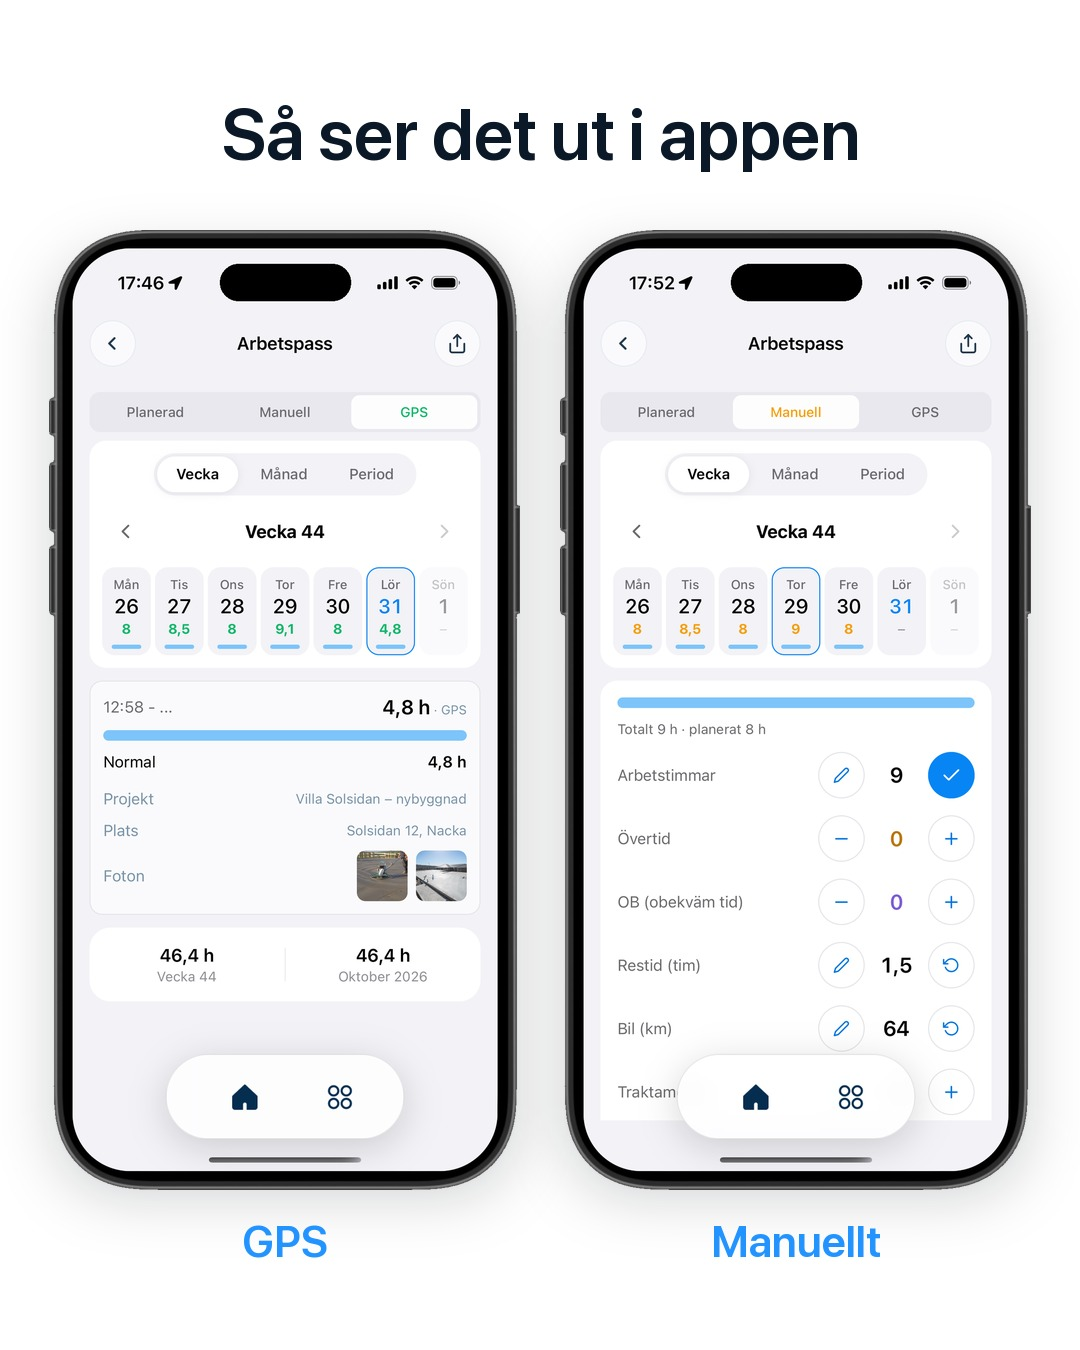
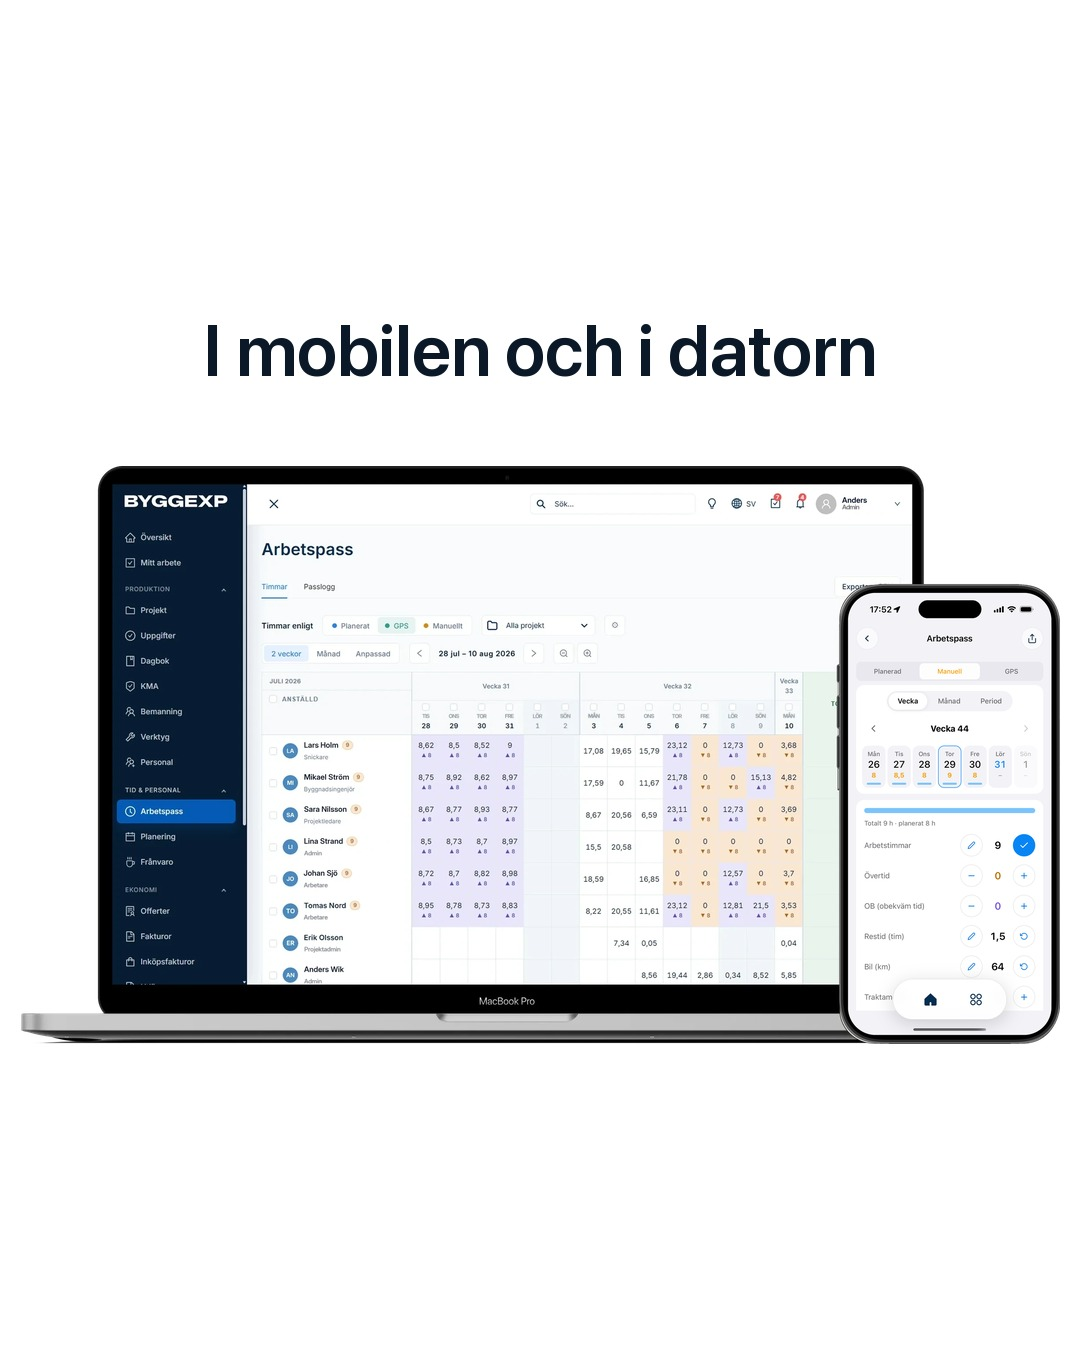
feat(smm): 3-slide carousel, site laptop with the new week screen on the phone
Claude-Session: https://claude.ai/code/session_015ffAXEftTHPL4eNP1AivUn

diff --git a/design-assets/social/posts/make_3d.py b/design-assets/social/posts/make_3d.py
@@ -235,16 +235,22 @@ def slide_shot(shots, caption):
     return f, d
 
 
-FEATURE = {  # slide 4: the site's feature picture, laptop + phone (public/landing/features)
-    "01-tid": ROOT / "public/landing/features/1arbetspass.webp",
+FEATURE = {  # last slide: the site's laptop + phone picture; the old phone is covered by the new app screen
+    # id: (site picture, new screen, phone box on the site picture: x, y_top, height)
+    "01-tid": (ROOT / "public/landing/features/1arbetspass.webp",
+               APP_SHOTS / "03-arbetspass-manuell-topp.png", (1893, 268, 1044)),
 }
 
 
-def slide_feature(path, caption):
-    # Headline + picture centred as one group (the picture is wide, so a top headline leaves a hole).
+def slide_feature(spec, caption):
+    # Laptop from the site + our real iPhone with the current week screen on top of the old phone.
+    path, screen, (px, py, ph) = spec
     f = Image.new("RGBA", (W, H), (255, 255, 255, 255))
     d = ImageDraw.Draw(f)
     im = Image.open(path).convert("RGBA")
+    p = phone(screen)
+    p = p.resize((round(p.width * ph / p.height), ph), Image.LANCZOS)
+    im.alpha_composite(p.crop((0, 0, min(p.width, im.width - px), min(p.height, im.height - py))), (px, py))
     im = im.crop(im.getbbox())
     w = W - 40
     im = im.resize((w, round(im.height * w / im.width)), Image.LANCZOS)
@@ -259,9 +265,9 @@ def carousel(pid):
     _, lines, art, items, badges = p
     size = headline_size()
     out = []
-    slides = [slide_cover(lines, art, size), slide_steps(items, pid), slide_shot(SHOTS[pid], "Så ser det ut i appen")]
-    if pid in FEATURE:
-        slides.append(slide_feature(FEATURE[pid], "I mobilen och i datorn"))
+    # 3 pictures (owner 2026-10-31): the site's laptop + new phone replaces the separate phone slide
+    last = slide_feature(FEATURE[pid], "I mobilen och i datorn") if pid in FEATURE else slide_shot(SHOTS[pid], "Så ser det ut i appen")
+    slides = [slide_cover(lines, art, size), slide_steps(items, pid), last]
     for i, (f, d) in enumerate(slides):
         if i == 0:  # footer only on the first picture (owner 2026-10-31)
             footer(f, d, badges)

diff --git a/design-assets/social/DESIGN-SYSTEM-SMM.md b/design-assets/social/DESIGN-SYSTEM-SMM.md
@@ -76,7 +76,7 @@
 
 **S26 · 2026-10-31 · Посты о функциях: под 3D — «как это работает», без цены.** Под 3D-картинкой 3 коротких шага (зелёные шарики 1-2-3, как в презентациях функций): что делает человек → что делает система → что получаешь. Человек, который видит функцию впервые, понимает логику. Цены на картинке нет, в тексте поста тоже нет (только «14 dagar gratis, ingen bindningstid»). Шаг — 1–2 строки, перенос сбалансированный, без одиночного слова. Отменяет S17/S18 для постов о функциях; цена остаётся на обложках и закрепе. Код: `posts/make_3d.py` (`steps`, `wrap`). Почему: владелец: «не надо везде цены ставить, расскажи подробнее про функцию, какая логика».
 
-**S27 · 2026-10-31 · Пост о функции = карусель из 4 картинок.** 1) 3D + заголовок-выгода (подпись byggexp.se + значки сторов — только здесь); 2) «Så fungerar det» — сверху связь «På bygget → På kontoret»: 3D рабочего с телефоном, синяя пунктирная стрелка, 3D женщины за компьютером (видно: человек ввёл — в компьютере уже есть); ниже 3 шага, длинный шаг переносится, не вылезает за край (`FLOW` в make_3d.py); 3) «Så ser det ut i appen» — настоящий экран в настоящем iPhone из презентаций (`byggexp-admin/docs/presentations/design-system/assets/screens/foto-phone.png`, титановая рамка, кнопки, Dynamic Island), не нарисованная рамка. 4) «I mobilen och i datorn» — картинка функции с сайта (ноутбук + телефон, `public/landing/features/<n>.webp`), заголовок и картинка по центру одной группой. Серия идёт по блоку «Så fungerar det» на главной (11 карточек, их названия и шаги); сначала утверждаем один пост, остальные — строго по нему. Заголовки на всех слайдах выше (y 90). Фон всех 3 картинок белый, без светло-голубого. Скриншот — свежий из симулятора, во весь экран, без пустого низа, и показывает все поля, которые человек заполняет (часы, övertid, OB, restid, bil, traktamente, фото, kvitton), а не обрезанный кусок. Экран всегда с верха: вкладки и неделя видны, низ может обрезаться (владелец: «пускай верхняя часть видна»). Если у функции два способа — оба: тидрапорт = «GPS eller manuellt» в заголовке и шагах, на 3-й картинке два телефона с подписями «GPS» / «Manuellt». Код: `posts/make_3d.py` (`carousel`, `SHOTS`, скрины в `~/Desktop/SMM/app-shots/`). Почему: владелец: «одним постом 2–3 картинки», «заголовок выше», «телефон реальный», «подпись только на 1-й», «у нас не только GPS — мануальный ввод обязательно», «больше полей, где человек часы вводит».
+**S27 · 2026-10-31 · Пост о функции = карусель из 3 картинок.** 1) 3D + заголовок-выгода (подпись byggexp.se + значки сторов — только здесь); 2) «Så fungerar det» — сверху связь «På bygget → På kontoret»: 3D рабочего с телефоном, синяя пунктирная стрелка, 3D женщины за компьютером (видно: человек ввёл — в компьютере уже есть); ниже 3 шага, длинный шаг переносится, не вылезает за край (`FLOW` в make_3d.py); 3) «Så ser det ut i appen» — настоящий экран в настоящем iPhone из презентаций (`byggexp-admin/docs/presentations/design-system/assets/screens/foto-phone.png`, титановая рамка, кнопки, Dynamic Island), не нарисованная рамка. 3-я картинка (если у функции есть картинка на сайте) — «I mobilen och i datorn»: ноутбук с сайта (`public/landing/features/<n>.webp`), а старый телефон на ней закрыт нашим настоящим iPhone с текущим экраном (часы — неделя, вкладка Manuell); заголовок и картинка по центру одной группой. Отдельный слайд с телефонами тогда не нужен (владелец: «либо третий, либо четвёртый»). Серия идёт по блоку «Så fungerar det» на главной (11 карточек, их названия и шаги); сначала утверждаем один пост, остальные — строго по нему. Заголовки на всех слайдах выше (y 90). Фон всех 3 картинок белый, без светло-голубого. Скриншот — свежий из симулятора, во весь экран, без пустого низа, и показывает все поля, которые человек заполняет (часы, övertid, OB, restid, bil, traktamente, фото, kvitton), а не обрезанный кусок. Экран всегда с верха: вкладки и неделя видны, низ может обрезаться (владелец: «пускай верхняя часть видна»). Если у функции два способа — оба: тидрапорт = «GPS eller manuellt» в заголовке и шагах, на 3-й картинке два телефона с подписями «GPS» / «Manuellt». Код: `posts/make_3d.py` (`carousel`, `SHOTS`, скрины в `~/Desktop/SMM/app-shots/`). Почему: владелец: «одним постом 2–3 картинки», «заголовок выше», «телефон реальный», «подпись только на 1-й», «у нас не только GPS — мануальный ввод обязательно», «больше полей, где человек часы вводит».
 
 **S28 · 2026-10-31 · Шрифт картинок = то, что реально видно на сайте: SF Pro.** Сайт в CSS пишет `"DM Sans", -apple-system…`, но DM Sans нигде не подгружает (нет @font-face / Google Fonts), поэтому посетитель видит системный SF Pro. В картинках — `/System/Library/Fonts/SFNS.ttf` (вариативный): заголовки 600, шаги 500, текст 400; крупный текст — оптический размер Display. DM Sans в картинках не использовать. Сайт не трогаем (сделан по Figma, эталон): материалы подстраиваются под сайт, а не наоборот. Код: `font()` в `posts/make_3d.py`. Почему: владелец: «шрифты точно с сайта?» — были не с сайта.
 
